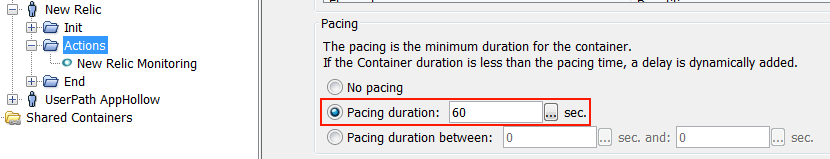
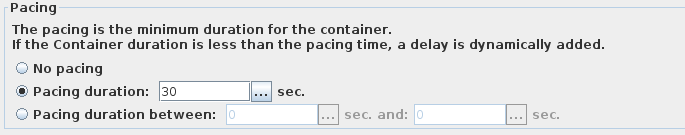
Improve documentation

Changed region(s): [[0.0, 0.0, 1.0, 1.0], [0.9197, 0.8, 0.981, 0.9185], [0.7971, 0.7704, 0.9197, 0.8]]

diff --git a/README.md b/README.md
@@ -1,6 +1,6 @@
 <p align="center"><img src="/screenshots/dynatrace_logo.png" width="40%" alt="Dynatrace Logo" /></p>
 
-# Dynatrace	
+# Dynatrace	Integration for NeoLoad
 
 ## Overview
 
@@ -67,7 +67,7 @@ Once installed, how to use in a given NeoLoad project:
 1. Insert "DynatraceEvents" in the ‘End’ block.
 1. Insert "DynatraceMonitoring" in the ‘Actions’ block.
    <p align="center"><img src="/screenshots/dynatrace_user_path.png" alt="Dynatrace User Path" /></p>
-1. Select the **Actions** container and set a pacing duration of 60 seconds.
+1. Select the **Actions** container and set a pacing duration of 30 seconds.
    <p align="center"><img src="/screenshots/actions_container_pacing.png" alt="Action's Pacing" /></p>
 1. Select the **Actions** container and set the runtime parameters "Reset user session and emulate new browser between each iteration" to "No".
    <p align="center"><img src="/screenshots/actions_container_reset_iteration_no.png" alt="Action's Runtime parameters" /></p>
@@ -125,9 +125,11 @@ All the metrics retrieved from Dynatrace are available on the NeoLoad Controller
 1. Create a custom chart with NeoLoad data
    <p align="center"><img src="/screenshots/dynatrace_custom_chart.png" alt="Dynatrace custom chart" /></p>
 1. Analyse NeoLoad metrics
+    Click on the custom metric
     <p align="center"><img src="/screenshots/dynatrace_select_metric.png" alt="Dynatrace select custom neoload metric" /></p>
+    Analyse all NeoLoad metric sent
     <p align="center"><img src="/screenshots/dynatrace_neoload_data.png" alt="NeoLoad Data" /></p>
-1. Consult NeoLoad event
+1. Consult NeoLoad event on the tested application
    <p align="center"><img src="/screenshots/dynatrace_consult_event.png" alt="Dynatrace consult NeoLoad Event" /></p>
 
 ## Check User Path
